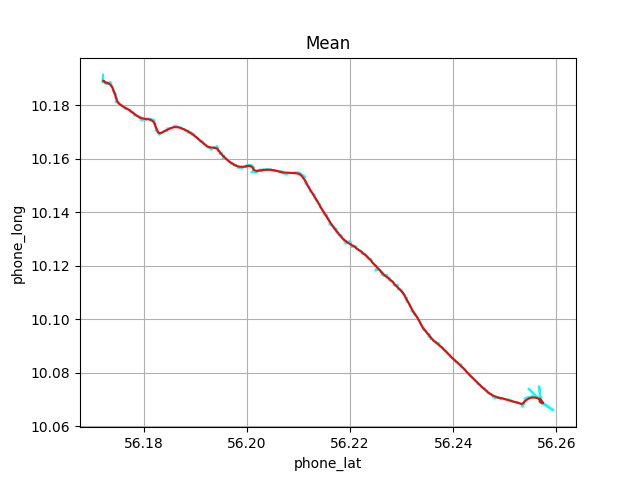
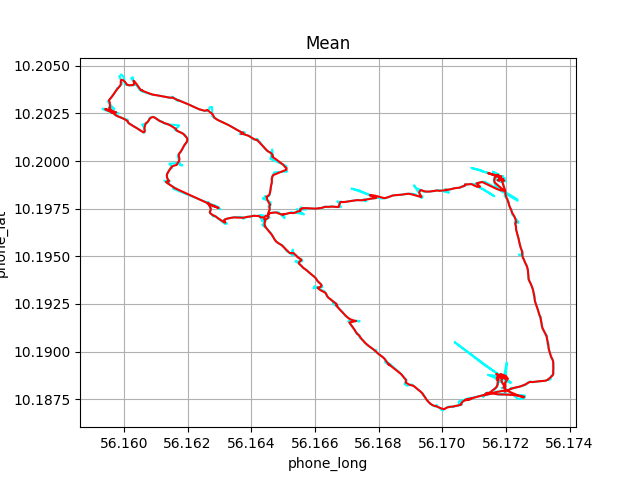
changed lat-long axis and path to walking.csv

diff --git a/leaflejs/plotting_data/Median.py b/leaflejs/plotting_data/Median.py
@@ -1,7 +1,7 @@
 import matplotlib.pyplot as plt
 import numpy as np
 import pandas as pd
-base_df = pd.read_csv("Running.csv")
+base_df = pd.read_csv("leaflejs\data\Walking.csv")
 
 
 def moving_average(x, w):
@@ -23,7 +23,7 @@ fig, ax = plt.subplots()
 ax.plot(x, y, color='aqua')
 ax.plot(x_median, y_median, color='red')
 
-ax.set(xlabel='phone_lat', ylabel='phone_long',
+ax.set(xlabel='phone_long', ylabel='phone_lat',
        title='Median')
 ax.grid()
 

diff --git a/leaflejs/plotting_data/Mean.py b/leaflejs/plotting_data/Mean.py
@@ -2,7 +2,7 @@ import matplotlib.pyplot as plt
 import numpy as np
 import pandas as pd
 
-base_df = pd.read_csv("data/Driving.csv")
+base_df = pd.read_csv("data/Walking.csv")
 
 
 def moving_average(x, w):
@@ -22,7 +22,7 @@ fig, ax = plt.subplots()
 ax.plot(x, y, color='aqua')
 ax.plot(x_mean, y_mean, color='red')
 
-ax.set(xlabel='phone_lat', ylabel='phone_long',
+ax.set(xlabel='phone_long', ylabel='phone_lat',
        title='Mean')
 ax.grid()
 

diff --git a/leaflejs/plotting_data/raw.py b/leaflejs/plotting_data/raw.py
@@ -1,7 +1,7 @@
 import matplotlib.pyplot as plt
 import numpy as np
 import pandas as pd
-base_df = pd.read_csv("Running.csv")
+base_df = pd.read_csv("leaflejs\data\Biking.csv")
 
 
 def moving_average(x, w):
@@ -17,7 +17,7 @@ fig, ax = plt.subplots()
 
 ax.plot(x, y, color='aqua')
 
-ax.set(xlabel='phone_lat', ylabel='phone_long',
+ax.set(xlabel='phone_long', ylabel='phone_lat',
        title='Raw')
 ax.grid()
 
